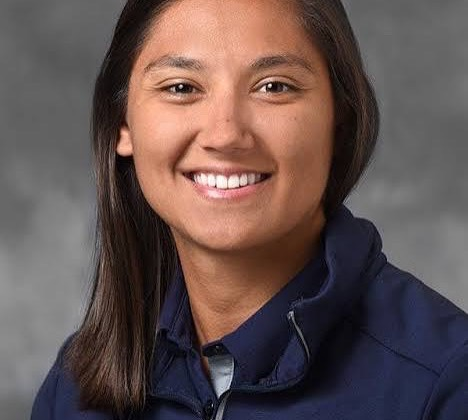
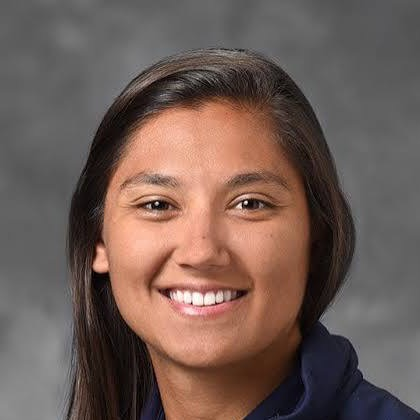
Add files via upload

diff --git a/nutritional coach/src/site.css b/nutritional coach/src/site.css
@@ -79,7 +79,7 @@ mark.todo { background: #fbe6a6; color: #6b4e00; padding: 0 3px; border-radius: 
 .about { display: grid; grid-template-columns: minmax(0, 1.3fr) minmax(0, .9fr); gap: clamp(32px, 6vw, 80px); align-items: start }
 .about h2 { margin: 16px 0 20px }
 .about p { font-size: 16px; margin: 0 0 16px }
-.headshot { display: block; width: 100%; height: auto; border-radius: 4px; margin-bottom: 16px }
+.headshot { display: block; width: min(220px, 60%); aspect-ratio: 1; height: auto; object-fit: cover; border-radius: 50%; border: 4px solid var(--paper); box-shadow: 0 0 0 1px var(--line); margin-bottom: 18px }
 .post-nominals { margin: 0 0 12px; font: 500 12px var(--mono); letter-spacing: .4px; color: var(--accent) }
 .experience { list-style: none; margin: 12px 0 0; padding: 0 0 0 16px; border-left: 1px solid var(--line) }
 .experience li { position: relative; display: grid; gap: 3px; padding: 0 0 18px }

diff --git a/nutritional coach/src/Site.tsx b/nutritional coach/src/Site.tsx
@@ -88,7 +88,7 @@ function Site() {
             <a className="text-link" href={coach.linkedIn} target="_blank" rel="noreferrer">View my LinkedIn →</a>
           </div>
           <div className="about-side">
-            <img className="headshot" src={coach.headshot} alt={`${coach.name}, smiling, in a navy sports jacket`} width={468} height={420} />
+            <img className="headshot" src={coach.headshot} alt={`${coach.name}, smiling, in a navy sports jacket`} width={420} height={420} />
             <p className="post-nominals">{coach.name}, {coach.postNominals}</p>
             <dl className="credentials">
               {about.credentials.map((item) => (
